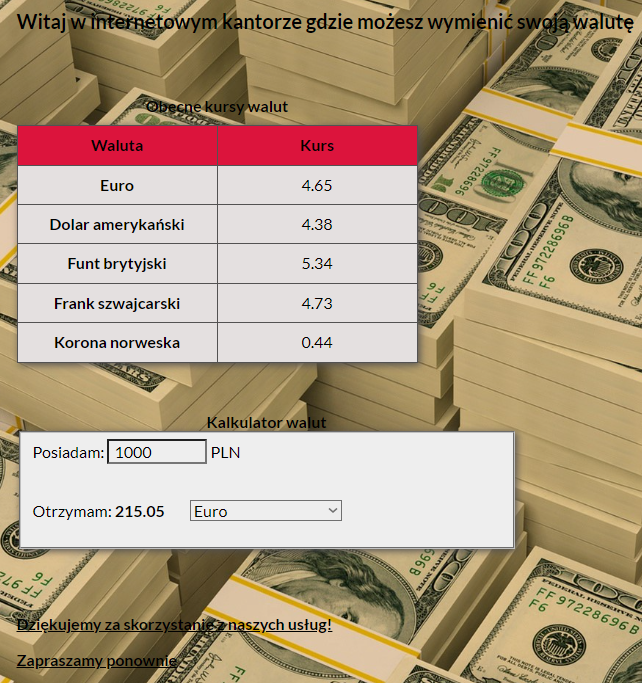
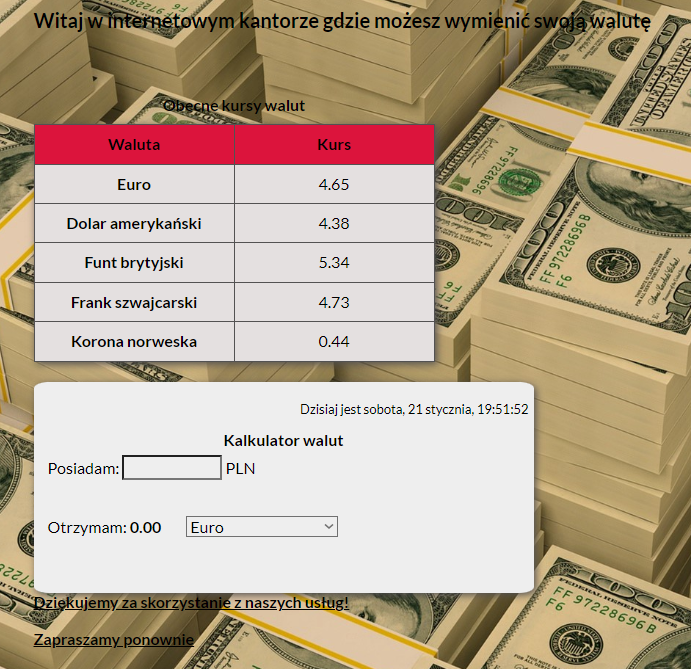
upadeted readme and pagePhoto

diff --git a/README.md b/README.md
@@ -18,6 +18,9 @@ In my website I used this technologies:
 - Java Script
 - React.js
 
+## Update
+I also added localStorage to the program.
+
 ## Available Scripts
 
 In the project directory, you can run:
